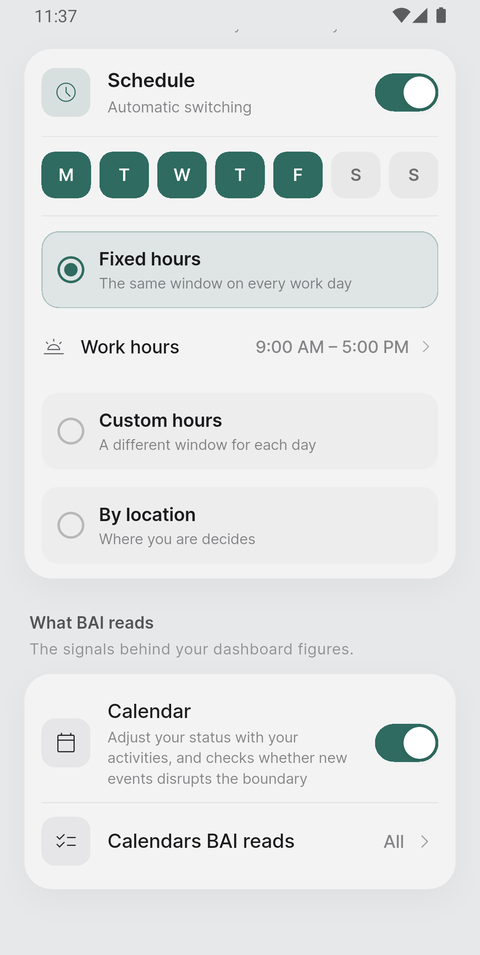
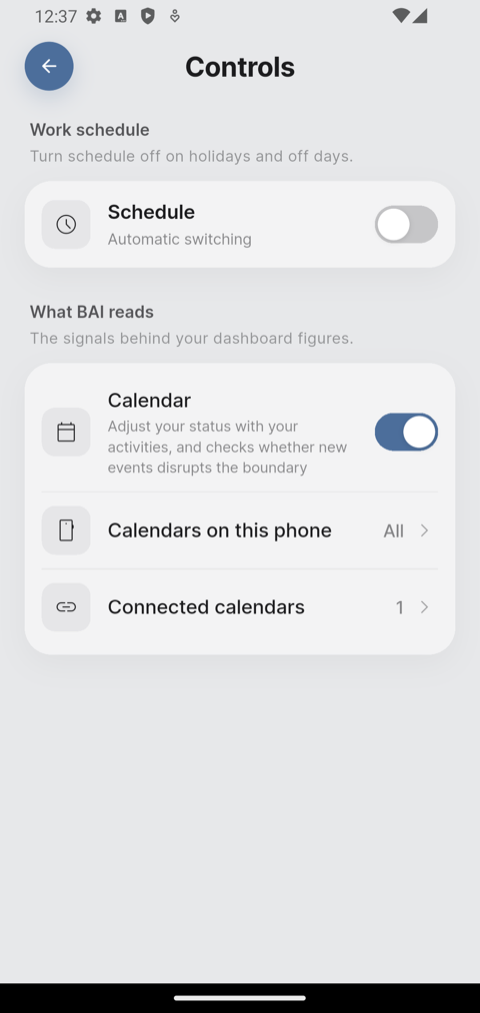
connected_calendars
Privacy policy: calendars connected by link (download straight to the phone,
link kept in secure storage, phone permission only for the phone's calendars).
Tutorial: Controls calendar menu, Calendars on this phone, Connected calendars,
calendar dots on the Schedule.

diff --git a/tutorial/index.html b/tutorial/index.html
@@ -514,32 +514,47 @@
 
   <div class="step">
     <div class="step-body">
-      <h3><span class="num">3</span>Connect your calendar</h3>
+      <h3><span class="num">3</span>Turn the calendar on <span class="new">New</span></h3>
       <p>
         Scroll to <strong>What BAI reads</strong> and switch <strong>Calendar</strong>
-        on. Your phone will ask permission the first time.
+        on. Two ways to give BAI a calendar appear beneath it — use either, or both:
       </p>
+      <ul>
+        <li><strong>Calendars on this phone</strong> — the calendars already in your
+            phone's Calendar app.</li>
+        <li><strong>Connected calendars</strong> — a calendar added by its link, for
+            one that is not on your phone, or when you would rather BAI did not have
+            all of your phone's calendars.</li>
+      </ul>
       <p>
-        BAI only ever <em>reads</em> your calendar. It never adds, edits or deletes
+        BAI only ever <em>reads</em> your calendars. It never adds, edits or deletes
         anything.
+      </p>
+      <p class="why">
+        With the switch off, the Schedule and the dashboard say
+        <em>Calendar is off</em>. With it on but no calendar chosen yet, they say
+        <em>No calendar connected</em>. Either one takes you straight here.
       </p>
     </div>
     <figure>
-      <img src="img/controls-calendar.png" alt="Controls screen with the Calendar switch on under What BAI reads">
+      <img src="img/controls-calendar.png" alt="Controls screen with the Calendar switch on, and beneath it Calendars on this phone and Connected calendars" onerror="shotMissing(this)">
       <figcaption>Controls · what BAI reads</figcaption>
     </figure>
   </div>
 
   <div class="step">
     <div class="step-body">
-      <h3><span class="num">4</span>Choose which calendars count</h3>
+      <h3><span class="num">4</span>Calendars on this phone</h3>
       <p>
-        Tap <strong>Calendars BAI reads</strong>. Every calendar on your phone is
-        listed, grouped by the account it came from.
+        Tap <strong>Calendars on this phone</strong>. The first time, your phone asks
+        whether BAI may read its calendars — this is the only place it asks.
       </p>
       <p>
+        Every calendar on your phone is listed, grouped by the account it came from.
         Switch off the ones that are somebody else's — a shared team calendar, a
-        subscribed holiday feed — and their events stop filling your day.
+        subscribed holiday feed — and their events stop filling your day. To leave
+        the phone's calendars out altogether, turn off
+        <strong>Read this phone's calendars</strong> at the top.
       </p>
       <p class="why">
         This matters more than it looks. A shared calendar you cannot control will
@@ -547,8 +562,48 @@
       </p>
     </div>
     <figure>
-      <img src="img/controls-calendars-picker.png" alt="Calendars screen with Work and Personal both on, reading all two calendars">
+      <img src="img/controls-calendars-picker.png" alt="Calendars on this phone, with Read this phone's calendars on and the Work and Personal calendars both switched on" onerror="shotMissing(this)">
       <figcaption>Pick what counts</figcaption>
+    </figure>
+  </div>
+
+  <div class="step">
+    <div class="step-body">
+      <h3><span class="num">5</span>Connect a calendar by its link <span class="new">New</span></h3>
+      <p>
+        For a calendar that is not on your phone — or one you would rather keep off
+        it — tap <strong>Connected calendars</strong>, then <strong>+</strong>.
+        Choose where it lives: Outlook, Google, iCloud, Proton, Fastmail, Zoho,
+        Nextcloud, or <em>Other</em> for anything else.
+      </p>
+      <ul>
+        <li>BAI shows where that service keeps the calendar's link. Copy it, paste it
+            under <strong>Link</strong>, give the calendar a name and a colour, and tap
+            <strong>Connect</strong>.</li>
+        <li>Where the service offers it, you can share <em>busy times only</em>. BAI
+            still counts the hours; the events show as "Busy".</li>
+        <li>Each calendar shows when it was last updated. BAI updates it by itself;
+            the <strong>refresh</strong> button updates it now. Tap a calendar to
+            remove it.</li>
+        <li>On the Schedule, every event carries a small dot in its calendar's colour,
+            so you can tell where it came from. The same event in two calendars is
+            shown and counted once, with both dots.</li>
+      </ul>
+      <p class="why">
+        The link goes straight from your calendar service to your phone, and stays in
+        BAI — it is not added to your phone's Calendar app, and nothing is sent to the
+        study. Anyone holding the link can read that calendar, so keep it to
+        yourself; resetting it in your calendar service disconnects it. For a work
+        calendar, check that your workplace allows sharing it this way.
+      </p>
+    </div>
+    <figure>
+      <img src="img/connected-add.png" alt="Adding a Proton calendar: the link pasted, named Holidays, a violet colour chosen, and the Connect button" onerror="shotMissing(this)">
+      <figcaption>Paste the link, name it, pick a colour</figcaption>
+      <img style="margin-top:18px" src="img/connected-list.png" alt="Connected calendars listing Holidays, from Proton, updated 12:37pm, with a refresh button" onerror="shotMissing(this)">
+      <figcaption>Connected, with when it last updated</figcaption>
+      <img style="margin-top:18px" src="img/schedule-calendar-dots.png" alt="A Schedule day with Norway: Christmas Eve marked with a violet dot and Year-end review with a blue dot" onerror="shotMissing(this)">
+      <figcaption>Each event's dot is its calendar's colour</figcaption>
     </figure>
   </div>
 </section>
@@ -1010,7 +1065,8 @@
         <li><strong>Reminders</strong> — no places pinned yet, By Focus not set up, or
             still in Work mode after two days. Usually a setting that needs a look.</li>
         <li><strong>How available are you?</strong> — after five work days without a mood
-            check-in (two if your calendar is off). Tap it to check in.
+            check-in (two if your calendar is off or none is connected). Tap it to
+            check in.
             <span class="new">New</span></li>
         <li><strong>Coming up … don't forget to prepare</strong> — the reminders you set
             on an event (<a href="#schedule">Schedule</a>). <span class="new">New</span></li>
@@ -1045,7 +1101,7 @@
       </p>
       <p>
         Gone quiet? After <strong>five work days</strong> without a check-in — two if
-        your calendar is off — BAI reminds you once on the lock screen, then in the
+        your calendar is off or none is connected — BAI reminds you once on the lock screen, then in the
         app each day until you check in. It never asks on a day off, or while your
         schedule is off. <span class="new">New</span>
       </p>

diff --git a/index.md b/index.md
@@ -77,6 +77,10 @@ never uploaded**.
 The single exception is signing in: your phone number and PIN are sent to the
 study's server to check that you are on the participant roster.
 
+If you connect a calendar by its link, BAI downloads that calendar from the
+address in the link straight to your phone. Nothing about you is sent to the
+study.
+
 BAI contains no advertising, no analytics, and no third-party tracking of any
 kind.
 
@@ -101,8 +105,18 @@ stored on your phone so you do not have to sign in again.
 Your phone number is how the study recognises you as an enrolled participant.
 It is not published, and it is not shared with anyone outside the study team.
 
-BAI transmits nothing else — not once, not in the background, not in summary
-form.
+**Downloading a calendar you connect.** If you add a calendar by its link
+(Controls → Calendar → Connected calendars), BAI fetches the calendar file from
+the address in that link — Outlook, Google, iCloud, Proton or whichever service
+you copied it from — over an encrypted connection, and refreshes it from time
+to time. The request goes only to that service, and carries nothing beyond what
+any web request does, such as your phone's internet address. The calendar comes
+to your phone; nothing goes to the study's server or to anyone else. Some
+services let you share busy times only, without event titles; BAI works with
+that too.
+
+Apart from that, BAI transmits nothing else — not once, not in the background,
+not in summary form.
 
 ---
 
@@ -122,6 +136,13 @@ All of the following is read and stored locally, and is never sent anywhere:
   between Work and Life
 - **Events and calendars you set aside** — if you choose *Don't count this
   event*, or leave a calendar out, BAI remembers that choice on the phone
+- **Calendars you connect by link** — the name and colour you gave each, the
+  downloaded copy of the calendar, and the link itself. The link lets anyone
+  who holds it read that calendar, so BAI keeps it in the phone's secure
+  storage (the iPhone's Keychain, Android's Keystore). Connected calendars stay
+  inside BAI: they are not added to your phone's Calendar app, and other apps
+  cannot see them. You can reset the link in your calendar service at any time,
+  which disconnects it
 - **Reminders to prepare** — if you ask BAI to remind you to prepare for an
   event, it keeps that event's title and start time on the phone, so that it
   can say which event the reminder is for
@@ -153,7 +174,7 @@ phone.
 |---|---|
 | **Location** | To switch modes when you reach a place you marked |
 | **Location, "all the time"** | To notice that you have arrived at a place you marked while BAI is closed. Without it, arrival is noticed only when you open BAI |
-| **Calendar** | To measure how booked a day is |
+| **Calendar** | To measure how booked a day is, from the calendars on your phone. Only asked for if you choose *Calendars on this phone*; calendars you connect by link need no permission |
 | **Notifications** | To tell you when a day is booked past what it holds, when your work hours start or end, when you arrive at a place you marked, and when a Work session you timed is over; to deliver the reminders you ask for, such as a reminder to prepare for an event; and to remind you occasionally to check in with your mood, that you are still in Work mode, or to finish a setting |
 | **Focus (iPhone)** | Nothing to grant. You add BAI to a Focus in iOS Settings, so that turning that Focus on or off switches Work and Life |
 | **Do Not Disturb access (Android)** | To read whether Do Not Disturb is on, and to turn it on or off when you press BAI's button, so that it can switch Work and Life |
